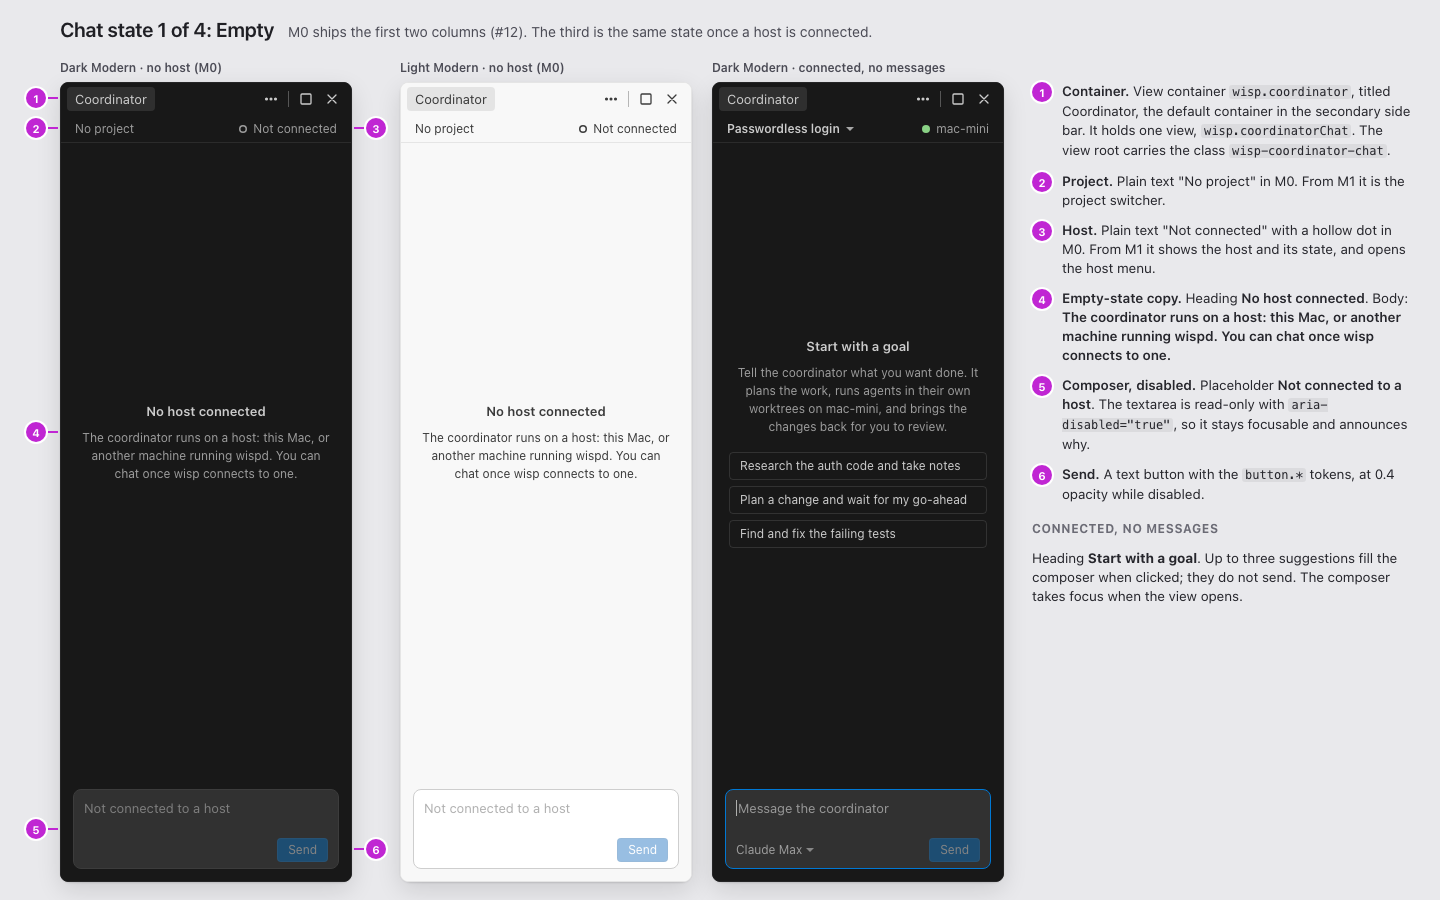
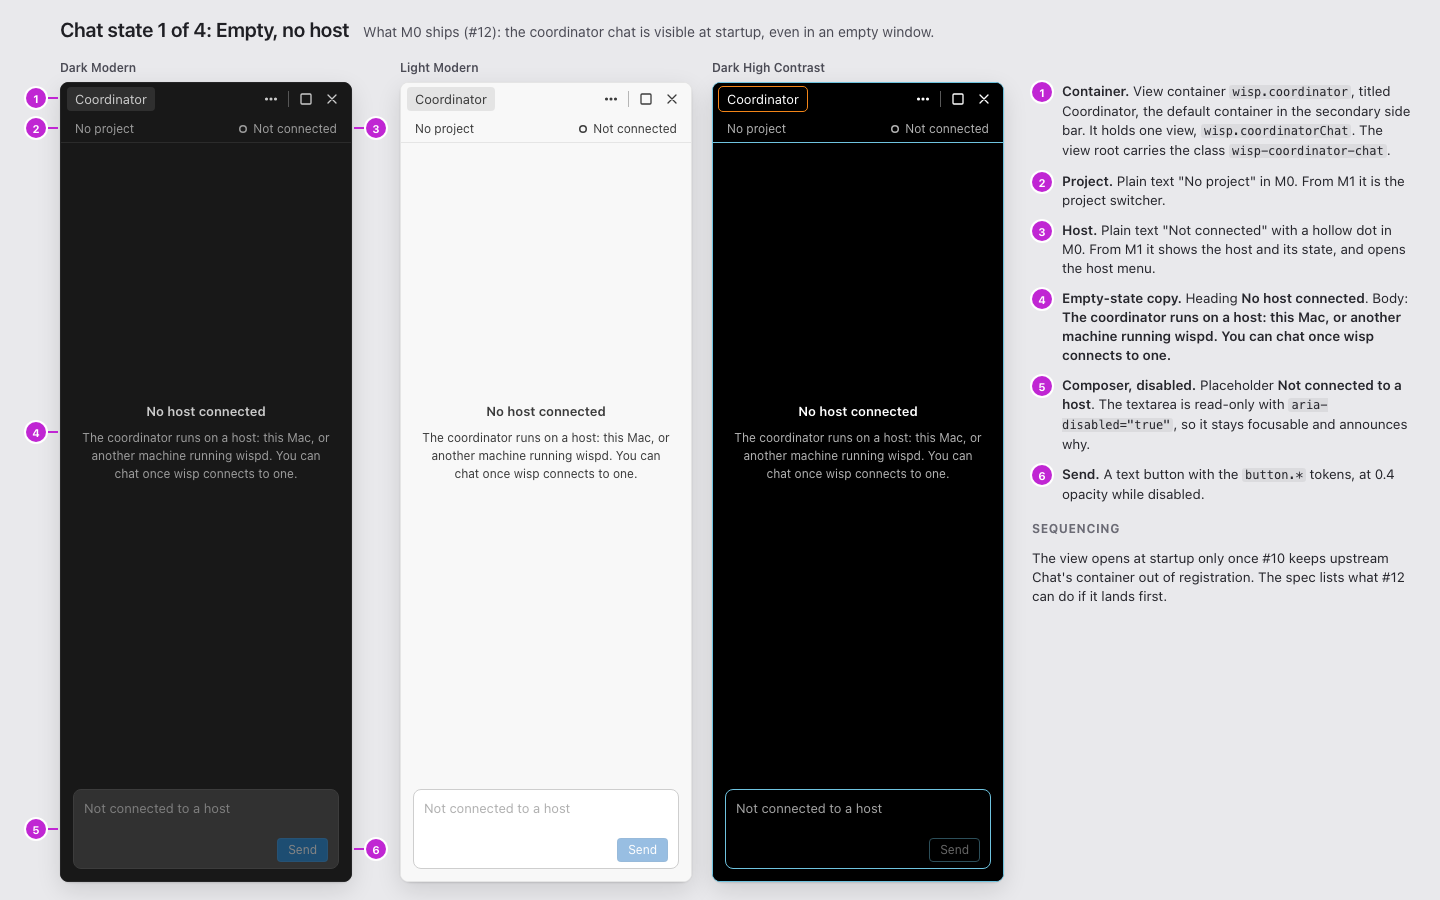
docs: freeze the plan card and cover high contrast in the chat mockups (#11)
The plan card records the approved plan without live state. The no-host empty state gains a Dark High Contrast column, and the connected empty state gets its own board. High contrast hover uses toolbar.hoverOutline, and agent rows show Stop agent on hover and focus.

diff --git a/docs/design/coordinator-chat/src/mock.js b/docs/design/coordinator-chat/src/mock.js
@@ -1,6 +1,6 @@
 // Builds each mock from URL parameters. See render.mjs for the list of pages.
 //   ?page=workbench&theme=dark-modern&stage=m4
-//   ?page=state&state=empty|conversation|running|error
+//   ?page=state&state=empty|empty-connected|conversation|running|error
 //   ?page=option-b&theme=dark-modern
 
 const params = new URLSearchParams(location.search);
@@ -71,21 +71,22 @@ function composer({ placeholder, disabled, focused, stop, account, draft }) {
 
 function agentsStrip({ open, summary, rows = [] }) {
 	const header = `<div class="wisp-chat-agents-header"><span class="wisp-chat-chevron${open ? ' is-open' : ''}"></span><strong>Agents</strong><span class="wisp-chat-meta">${summary}</span></div>`;
-	const body = open ? rows.map((r) => `<div class="wisp-chat-agent-row${r.hover ? ' is-hover' : ''}"><span class="wisp-chat-dot is-${r.state}"></span><span class="wisp-chat-agent-name">${r.name}</span><span class="wisp-chat-agent-task">${r.task}</span><span class="wisp-chat-agent-state">${r.status}</span></div>`).join('') : '';
+	const body = open ? rows.map((r) => {
+		const end = r.hover ? '<span class="wisp-chat-row-action">Stop agent</span>' : `<span class="wisp-chat-agent-state">${r.status}</span>`;
+		return `<div class="wisp-chat-agent-row${r.hover ? ' is-hover' : ''}"><span class="wisp-chat-dot is-${r.state}"></span><span class="wisp-chat-agent-name">${r.name}</span><span class="wisp-chat-agent-task">${r.task}</span>${end}</div>`;
+	}).join('') : '';
 	return `<div class="wisp-chat-agents">${header}${body}</div>`;
 }
 
-const planTasks = (states) => [
-	['Magic-link endpoint and token store', 'magic-link-api'],
-	['Email form and link landing page', 'login-ui'],
-	['Password flow behind <code>auth.passwordLogin</code>', 'password-flag'],
-].map(([title, agent], i) => {
-	const [state, label] = states[i];
-	return `<div class="wisp-chat-task"><span class="wisp-chat-task-number">${i + 1}</span><div><div>${title}</div><div class="wisp-chat-meta wisp-chat-task-status"><span class="wisp-chat-dot is-${state}"></span>${agent} · ${label}</div></div></div>`;
-}).join('');
+// The plan card records the approved plan: agent, host, and ordering. Live status is only in the agents strip.
+const planTasks = () => [
+	['Magic-link endpoint and token store', 'magic-link-api · mac-mini'],
+	['Email form and link landing page', 'login-ui · mac-mini'],
+	['Password flow behind <code>auth.passwordLogin</code>', 'password-flag · mac-mini · <span class="wisp-chat-nowrap">after 1 and 2</span>'],
+].map(([title, meta], i) => `<div class="wisp-chat-task"><span class="wisp-chat-task-number">${i + 1}</span><div><div>${title}</div><div class="wisp-chat-meta">${meta}</div></div></div>`).join('');
 
-function planCard(states, header, actions) {
-	return `<div class="wisp-chat-card"><div class="wisp-chat-card-header"><span>Plan</span><span class="wisp-chat-meta">${header}</span></div>${planTasks(states)}${actions ? `<div class="wisp-chat-card-actions">${actions}</div>` : ''}</div>`;
+function planCard(header, actions) {
+	return `<div class="wisp-chat-card"><div class="wisp-chat-card-header"><span>Plan</span><span class="wisp-chat-meta">${header}</span></div>${planTasks()}${actions ? `<div class="wisp-chat-card-actions">${actions}</div>` : ''}</div>`;
 }
 
 function chatView(state, { hover } = {}) {
@@ -110,7 +111,7 @@ function chatView(state, { hover } = {}) {
 			return `<div class="wisp-coordinator-chat">${contextBar({ project, host, hover: hover ? 'project' : undefined })}
 				<div class="wisp-chat-transcript is-scrolled">
 					${ask}
-					${message('coordinator', '10:03', planIntro + planCard([['review', 'needs review'], ['review', 'needs review'], ['queued', 'waits for 1 and 2']], 'approved 10:04'))}
+					${message('coordinator', '10:03', planIntro + planCard('Approved 10:04'))}
 					${go}
 					${message('coordinator', '10:41', `<p>Both agents finished and their tests pass. Review the changes, then I'll start task 3.</p>
 						<div class="wisp-chat-card">
@@ -124,7 +125,7 @@ function chatView(state, { hover } = {}) {
 			return `<div class="wisp-coordinator-chat"><div class="wisp-chat-progress" role="progressbar" aria-label="Coordinator is working"></div>${connected}
 				<div class="wisp-chat-transcript is-scrolled">
 					${ask}
-					${message('coordinator', '10:03', planIntro + planCard([['queued', 'ready'], ['queued', 'ready'], ['queued', 'waits for 1 and 2']], 'approved 10:04'))}
+					${message('coordinator', '10:03', planIntro + planCard('Approved 10:04'))}
 					${go}
 					${message('coordinator', '10:04', `<p>Starting two agents on mac-mini. I'll hold task 3 until both pass their tests.</p>
 						<div class="wisp-chat-event"><span class="wisp-chat-dot is-running"></span>Started <strong>magic-link-api</strong></div>
@@ -141,7 +142,7 @@ function chatView(state, { hover } = {}) {
 			return `<div class="wisp-coordinator-chat">${contextBar({ project, host, hostState: 'offline' })}
 				<div class="wisp-chat-transcript is-scrolled">
 					${ask}
-					${message('coordinator', '10:03', planIntro + planCard([['queued', 'ready'], ['queued', 'ready'], ['queued', 'waits for 1 and 2']], 'approved 10:04'))}
+					${message('coordinator', '10:03', planIntro + planCard('Approved 10:04'))}
 					${go}
 					${message('coordinator', '10:04', '<p>Starting two agents on mac-mini. I\'ll hold task 3 until</p><div class="wisp-chat-interrupted">Interrupted: lost connection to mac-mini</div>')}
 				</div>
@@ -159,7 +160,7 @@ function chatView(state, { hover } = {}) {
 			return `<div class="wisp-coordinator-chat is-wide">${connected}
 				<div class="wisp-chat-transcript">
 					${ask}
-					${message('coordinator', '10:03', planIntro + planCard([['queued', 'ready'], ['queued', 'ready'], ['queued', 'waits for 1 and 2']], 'approved 10:04'))}
+					${message('coordinator', '10:03', planIntro + planCard('Approved 10:04'))}
 					${go}
 					${message('coordinator', '10:04', `<p>Starting two agents on mac-mini. I'll hold task 3 until both pass their tests.</p>
 						<div class="wisp-chat-event"><span class="wisp-chat-dot is-running"></span>Started <strong>magic-link-api</strong></div>
@@ -383,12 +384,12 @@ function optionB() {
 // Markers are [number, side, top]: side 'l' or 'r' of the first frame, top in frame pixels.
 const boards = {
 	empty: {
-		title: 'Chat state 1 of 4: Empty',
-		sub: 'M0 ships the first two columns (#12). The third is the same state once a host is connected.',
+		title: 'Chat state 1 of 4: Empty, no host',
+		sub: 'What M0 ships (#12): the coordinator chat is visible at startup, even in an empty window.',
 		columns: [
-			['dark-modern', 'Dark Modern · no host (M0)', 'empty-m0'],
-			['light-modern', 'Light Modern · no host (M0)', 'empty-m0'],
-			['dark-modern', 'Dark Modern · connected, no messages', 'empty-ready'],
+			['dark-modern', 'Dark Modern', 'empty-m0'],
+			['light-modern', 'Light Modern', 'empty-m0'],
+			['hc-dark', 'Dark High Contrast', 'empty-m0'],
 		],
 		markers: [[1, 'l', 6], [2, 'l', 36], [3, 'r', 36], [4, 'l', 340], [5, 'l', 737], [6, 'r', 757]],
 		notes: [
@@ -399,7 +400,24 @@ const boards = {
 			['Composer, disabled', 'Placeholder <b>Not connected to a host</b>. The textarea is read-only with <code>aria-disabled="true"</code>, so it stays focusable and announces why.'],
 			['Send', 'A text button with the <code>button.*</code> tokens, at 0.4 opacity while disabled.'],
 		],
-		extra: '<h3>Connected, no messages</h3><div>Heading <b>Start with a goal</b>. Up to three suggestions fill the composer when clicked; they do not send. The composer takes focus when the view opens.</div>',
+		extra: '<h3>Sequencing</h3><div>The view opens at startup only once #10 keeps upstream Chat\'s container out of registration. The spec lists what #12 can do if it lands first.</div>',
+	},
+	'empty-connected': {
+		title: 'Chat state 1 of 4: Empty, connected',
+		sub: 'A host is connected, and the project has no messages yet.',
+		columns: [
+			['dark-modern', 'Dark Modern', 'empty-ready'],
+			['light-modern', 'Light Modern', 'empty-ready'],
+			['hc-dark', 'Dark High Contrast', 'empty-ready'],
+		],
+		markers: [[1, 'l', 36], [2, 'r', 36], [3, 'l', 254], [4, 'l', 408], [5, 'l', 737]],
+		notes: [
+			['Project', 'The project switcher: a Quick Pick of projects, then New project.'],
+			['Host', 'The connected host, with a <code>charts.green</code> dot. It opens the host menu: Reconnect, Switch host, Add host, and Show wispd log.'],
+			['Empty-state copy', 'Heading <b>Start with a goal</b>. Body: <b>Tell the coordinator what you want done. It plans the work, runs agents in their own worktrees on {host}, and brings the changes back for you to review.</b>'],
+			['Suggestions', 'Up to three secondary buttons. Clicking one fills the composer; it does not send.'],
+			['Composer', 'Takes focus when the view opens, shown by <code>focusBorder</code>. Placeholder <b>Message the coordinator</b>. The footer holds the account picker (M2).'],
+		],
 	},
 	conversation: {
 		title: 'Chat state 2 of 4: Conversation',
@@ -407,12 +425,12 @@ const boards = {
 		columns: [
 			['dark-modern', 'Dark Modern', 'conversation', { hover: true }],
 			['light-modern', 'Light Modern', 'conversation'],
-			['hc-dark', 'Dark High Contrast', 'conversation'],
+			['hc-dark', 'Dark High Contrast', 'conversation', { hover: true }],
 		],
 		markers: [[1, 'l', 36], [2, 'r', 250], [3, 'l', 410], [4, 'l', 474], [5, 'r', 572], [6, 'l', 674], [7, 'l', 737]],
 		notes: [
-			['Context bar', 'Project switcher (a Quick Pick of projects, then New project) and host status (the host menu). Shown hovered.'],
-			['Plan card', 'Numbered tasks with the agent and state of each. While a plan waits for approval, the card ends with Run plan and Change plan.'],
+			['Context bar', 'Project switcher (a Quick Pick of projects, then New project) and host status (the host menu). Shown hovered in the dark columns. High contrast has no hover fill, so hover draws a dashed <code>toolbar.hoverOutline</code>.'],
+			['Plan card', 'Numbered tasks, each with its agent, host, and any ordering, such as "after 1 and 2". It stops changing once approved, so live status is only in the agents strip. While a plan waits for approval, the card ends with Run plan and Change plan.'],
 			['Your messages', '<code>input.background</code> with <code>input.border</code>, so your words keep the look of the composer.'],
 			['Coordinator messages', 'Plain text on the view background. Links use <code>textLink.foreground</code>; inline code uses <code>textPreformat.*</code>.'],
 			['Result card', 'One row per finished agent, with its diff stat. Review changes opens that agent\'s worktree diff in the editor area.'],
@@ -433,7 +451,7 @@ const boards = {
 		notes: [
 			['Progress', 'A 2px <code>progressBar.background</code> bar at the top of the view while the coordinator\'s own turn runs. It follows reduced motion.'],
 			['Streaming message', 'Text streams in, and "Working" ends the message until the turn finishes. Agent starts are logged as events; live status is not repeated here.'],
-			['Agents strip, open', 'The one place with live status: state, name, current step, elapsed time. A row opens the agent\'s detail; hovering a row shows Stop agent.'],
+			['Agents strip, open', 'The one place with live status: state, name, current step, elapsed time. A row opens the agent\'s detail. The hovered row shows Stop agent; a focused row shows it too, and Shift+F10 opens the row menu.'],
 			['Stop', 'Replaces Send while the turn runs; also <code>Cmd+Esc</code>. It ends the coordinator\'s turn only, and agents keep running. Typing stays enabled: Enter queues the message and sends it when the turn ends.'],
 		],
 		extra: '<h3>Screen readers</h3><div>Streaming text is never announced token by token. A finished message, an agent start, and an agent finish are each announced once, politely.</div>',

diff --git a/docs/design/coordinator-chat/src/chat.css b/docs/design/coordinator-chat/src/chat.css
@@ -2,6 +2,9 @@
  * Coordinator chat view (wisp.coordinatorChat). Every color, size, and radius comes from a
  * VS Code theme or size token, so the view follows light, dark, and high contrast themes.
  * None of the tokens belong to upstream's chat contribution.
+ * This is a reference for the build, not a drop-in port. The .is-* state classes, the fixed
+ * progress width, and the fake caret exist only to draw static mocks; the spec's build notes
+ * list their replacements.
  */
 
 .wisp-coordinator-chat {
@@ -52,6 +55,8 @@
 
 .wisp-chat-context-button.is-hover {
 	background: var(--vscode-toolbar-hoverBackground);
+	outline: 1px dashed var(--vscode-toolbar-hoverOutline, transparent);
+	outline-offset: -1px;
 }
 
 .wisp-chat-project {
@@ -277,15 +282,13 @@
 	border-top: 1px solid var(--vscode-widget-border, var(--vscode-contrastBorder, transparent));
 }
 
+.wisp-chat-nowrap {
+	white-space: nowrap;
+}
+
 .wisp-chat-task-number {
 	color: var(--vscode-descriptionForeground);
 	font-size: var(--vscode-fontSize-label1);
-}
-
-.wisp-chat-task-status {
-	display: flex;
-	align-items: center;
-	gap: var(--vscode-spacing-size60);
 }
 
 .wisp-chat-card-actions {
@@ -489,6 +492,12 @@
 .wisp-chat-agent-state {
 	flex: none;
 	color: var(--vscode-descriptionForeground);
+}
+
+/* Row actions show on hover and on keyboard focus; the row menu (Shift+F10) has them too. */
+.wisp-chat-row-action {
+	flex: none;
+	color: var(--vscode-textLink-foreground);
 }
 
 /* Banner above the composer: connection-level problems. */

diff --git a/docs/design/coordinator-chat/src/tokens.css b/docs/design/coordinator-chat/src/tokens.css
@@ -106,6 +106,7 @@
 	--vscode-titleBar-activeBackground: #181818;
 	--vscode-titleBar-activeForeground: #cccccc;
 	--vscode-toolbar-hoverBackground: rgba(90, 93, 94, 0.31);
+	--vscode-toolbar-hoverOutline: initial;
 	--vscode-widget-border: #313131;
 }
 
@@ -213,6 +214,7 @@
 	--vscode-titleBar-activeBackground: #f8f8f8;
 	--vscode-titleBar-activeForeground: #1e1e1e;
 	--vscode-toolbar-hoverBackground: rgba(184, 184, 184, 0.31);
+	--vscode-toolbar-hoverOutline: initial;
 	--vscode-widget-border: #e5e5e5;
 }
 
@@ -320,6 +322,7 @@
 	--vscode-titleBar-activeBackground: #000000;
 	--vscode-titleBar-activeForeground: #ffffff;
 	--vscode-toolbar-hoverBackground: initial;
+	--vscode-toolbar-hoverOutline: #f38518;
 	--vscode-widget-border: #6fc3df;
 }
 
@@ -427,5 +430,6 @@
 	--vscode-titleBar-activeBackground: #ffffff;
 	--vscode-titleBar-activeForeground: #292929;
 	--vscode-toolbar-hoverBackground: initial;
+	--vscode-toolbar-hoverOutline: #006bbd;
 	--vscode-widget-border: #0f4a85;
 }
